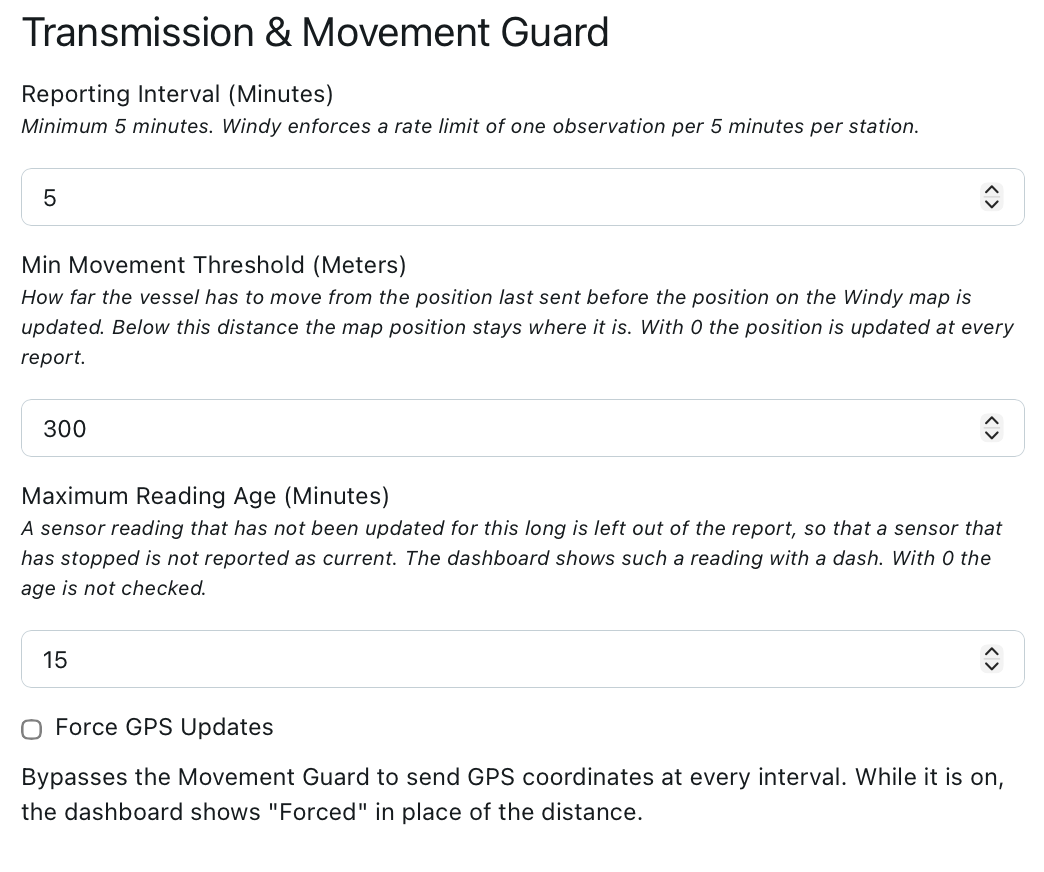
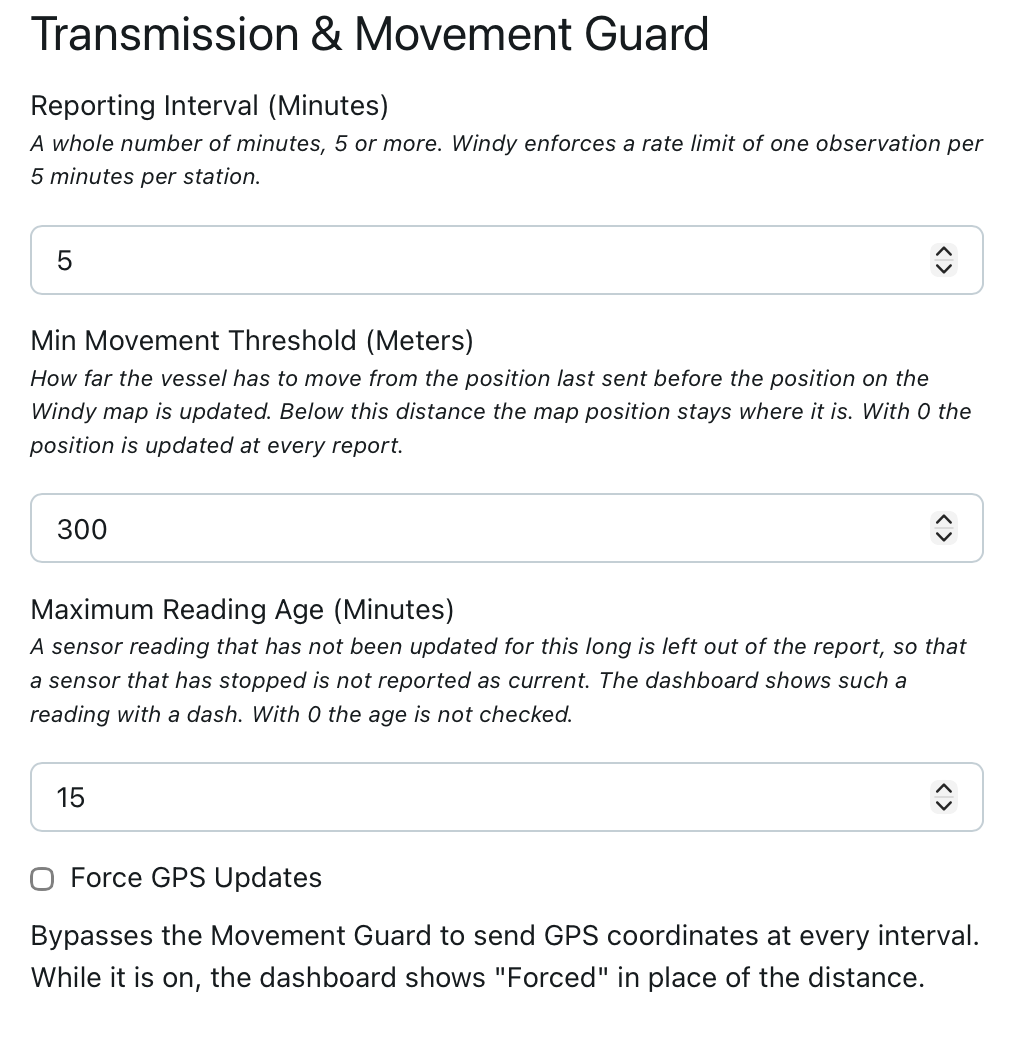
release: v1.6.2 - README names the Save Configuration button, transmission settings screenshot retaken

diff --git a/index.js b/index.js
@@ -1,6 +1,6 @@
 /*
  * Signal K Windy API v2 Reporter
- * v1.6.1 - Reporting interval as a whole number in the form, path overrides screenshot retaken
+ * v1.6.2 - README names the Save Configuration button, transmission settings screenshot retaken
  * Reports data to Windy using separate observation (GET) and metadata (PUT) endpoints.
  * Includes Movement Guard and Independent State Persistence.
  *

diff --git a/README.md b/README.md
@@ -81,7 +81,7 @@ Signal K server versions older than 2.31.1 have not been tested with this releas
    * Copy the **Station Password** from the station details.
    * Copy the **Station ID** (e.g., `f0123456`) from the station list.
 3. **Install the Plugin**: In the Signal K admin UI, open **Apps & Plugins > Store**, search for `signalk-windy-apiv2`, install it, and restart the Signal K server.
-4. **Configure the Plugin**: Open **Apps & Plugins > Configuration**, select **Windy API v2 Reporter**, enter the three credentials and set the **Display Name**, which is the name shown on the Windy map.
+4. **Configure the Plugin**: Open **Apps & Plugins > Configuration**, select **Windy API v2 Reporter**, enter the three credentials and set the **Display Name**, which is the name shown on the Windy map. Click **Save Configuration** below the form; saving the configuration for the first time also enables the plugin.
 5. **Set Movement Guard**: Choose a distance threshold (default 300m). The station position on Windy is updated only when the vessel moves beyond this distance from the last reported point.
 6. **Check the Dashboard**: After 15 seconds the plugin status shows the reported readings and a countdown to the next report. Until all three credentials are entered, the status reads "Not configured" and nothing is sent.
 
@@ -129,7 +129,7 @@ journalctl -u signalk -f | grep "signalk-windy-apiv2"
 
 The plugin maintains persistent state in a `state.json` file within the Signal K data directory, saved after every reporting cycle. There are two levels of reset depending on the situation.
 
-**Restart (apply config changes):** Open **Apps & Plugins > Configuration**, select the Windy API v2 Reporter, and click **Submit**. This restarts the plugin with the current settings. The movement baseline, reporting timer, and position establishment state are preserved — only configuration changes (credentials, interval, thresholds) take effect.
+**Restart (apply config changes):** Open **Apps & Plugins > Configuration**, select the Windy API v2 Reporter, and click **Save Configuration** below the form. This restarts the plugin with the current settings. The movement baseline, reporting timer, and position establishment state are preserved — only configuration changes (credentials, interval, thresholds) take effect.
 
 **Full reset (clear all state):** Disable the plugin, delete its `state.json` file, and enable the plugin again. The plugin has to be disabled first, because a running plugin saves its state again at the next cycle and when it stops. This clears the movement baseline, resets the reporting timer, and forces a fresh position update to Windy on the next reporting cycle. The state file is located at:
 
@@ -150,7 +150,7 @@ When sharing logs, redact the **Station Password** and **API Key** before postin
 
 ### Troubleshooting
 
-**Confirming credentials are valid.** The plugin validates credentials implicitly on each reporting cycle: a successful submission means the credentials are correct. There is no separate "test" action — if the dashboard shows sensor readings and a normal countdown after the warm-up period, the Station Password, API Key, and Station ID are all working. The verdict appears on the first reporting cycle after the plugin starts or is restarted via Submit (after the 15-second warm-up on a fresh start, or after the remaining interval on a resume), not instantly on Submit.
+**Confirming credentials are valid.** The plugin validates credentials implicitly on each reporting cycle: a successful submission means the credentials are correct. There is no separate "test" action — if the dashboard shows sensor readings and a normal countdown after the warm-up period, the Station Password, API Key, and Station ID are all working. The verdict appears on the first reporting cycle after the plugin starts or is restarted by saving its configuration (after the 15-second warm-up on a fresh start, or after the remaining interval on a resume), not at the moment the configuration is saved.
 
 **Error messages.** The messages below were checked against the Windy API on 2026-10-10.
 

diff --git a/CHANGELOG.md b/CHANGELOG.md
@@ -5,6 +5,12 @@ All notable changes to the Signal K Windy API v2 Reporter will be documented in 
 The format is based on [Keep a Changelog](https://keepachangelog.com/en/1.0.0/),
 and this project adheres to [Semantic Versioning](https://semver.org/spec/v2.0.0.html).
 
+## [1.6.2] - 2026-10-12
+
+### Changed
+- **README Names the Save Configuration Button**: The README told the reader to click **Submit** to save the plugin configuration. Current Signal K servers label that button **Save Configuration**, so the Quick Start, the restart instructions and the troubleshooting text now use that name or describe the action without a button name. The Quick Start also states that saving the configuration for the first time enables the plugin.
+- **Transmission Settings Screenshot**: The screenshot of the **Transmission & Movement Guard** section was retaken with 1.6.1. It shows the description of the **Reporting Interval** as reworded in that version.
+
 ## [1.6.1] - 2026-10-11
 
 ### Changed
@@ -297,6 +303,7 @@ and this project adheres to [Semantic Versioning](https://semver.org/spec/v2.0.0
 - **Dynamic Location Foundation**: Developed the initial code for handling "moving" stations (Boats/Vessels) within the Windy ecosystem.
 
 [Unreleased]: https://github.com/Peter-Petrik/signalk-windy-apiv2/compare/v1.6.0...HEAD
+[1.6.2]: https://github.com/Peter-Petrik/signalk-windy-apiv2/compare/v1.6.1...v1.6.2
 [1.6.1]: https://github.com/Peter-Petrik/signalk-windy-apiv2/compare/v1.6.0...v1.6.1
 [1.6.0]: https://github.com/Peter-Petrik/signalk-windy-apiv2/compare/v1.5.2...v1.6.0
 [1.5.2]: https://github.com/Peter-Petrik/signalk-windy-apiv2/compare/v1.5.1...v1.5.2
